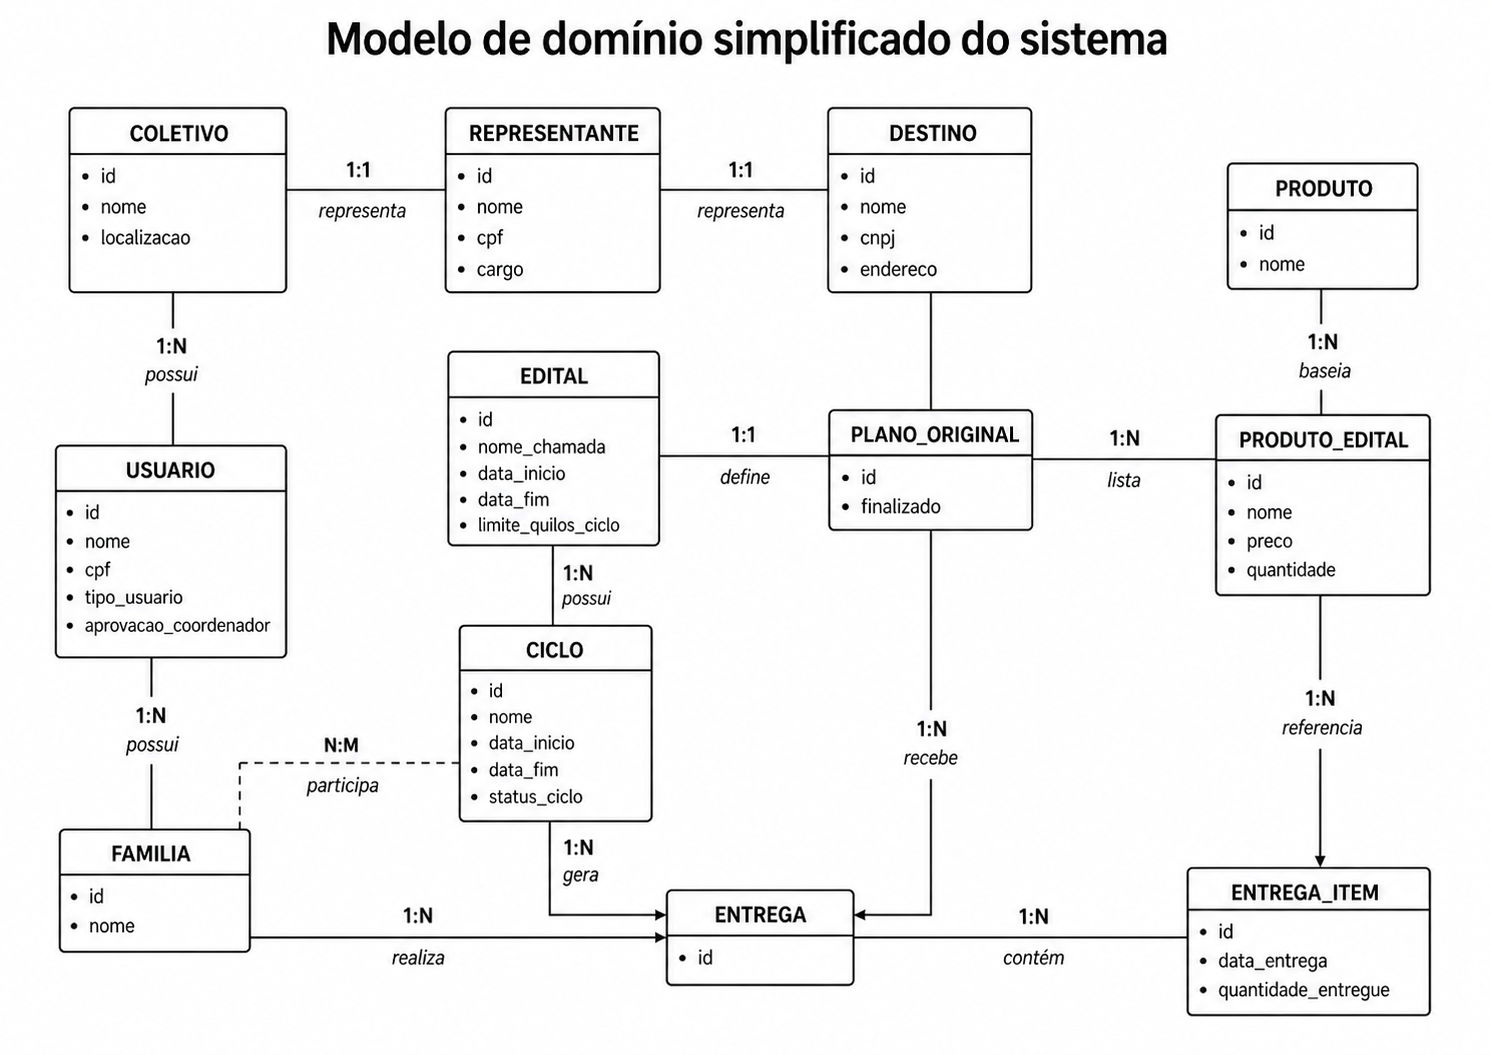
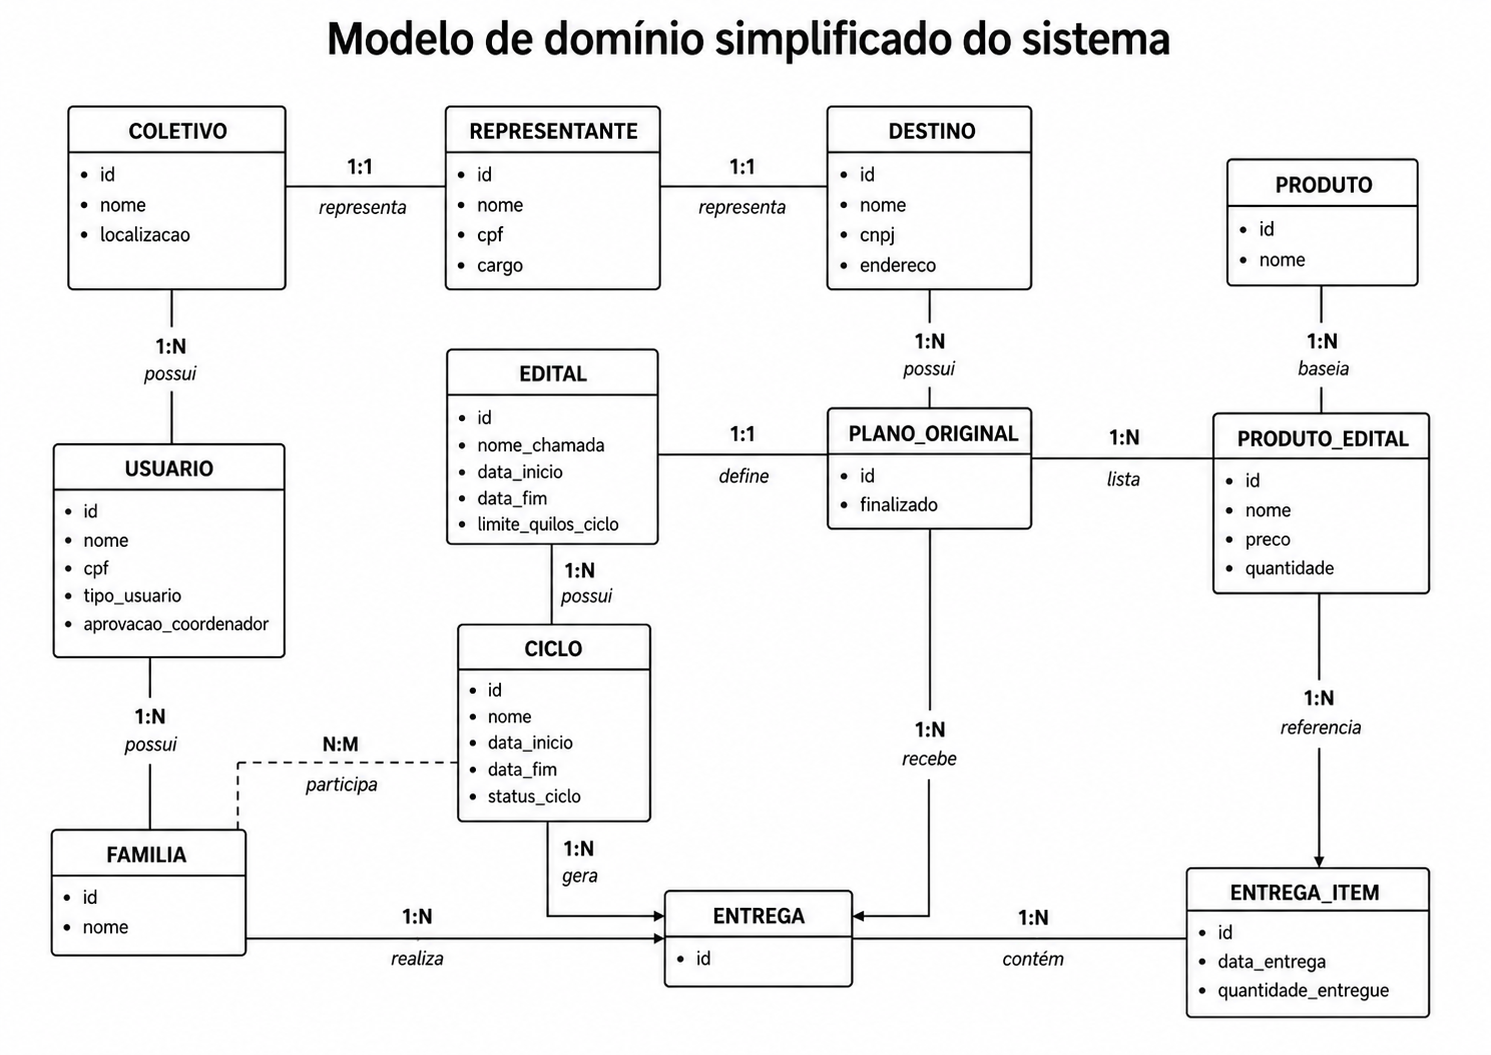
fix: Mudança no diagrama simplificado de classes. Imagem da arquitetura geral do sistema

diff --git a/Textual/chapter05.tex b/Textual/chapter05.tex
@@ -90,30 +90,44 @@ A separação entre frontend e backend confere independência ao desenvolvimento
 
 \begin{figure}[H]
     \centering
-    \resizebox{\textwidth}{!}{%
+    \resizebox{0.98\textwidth}{!}{%
     \begin{tikzpicture}[
-        component/.style={draw, rounded corners, align=center, minimum width=3.1cm, minimum height=1.15cm, fill=blue!5},
-        deploy/.style={draw, rounded corners, align=center, minimum width=3.1cm, minimum height=1.15cm, fill=green!8},
-        flow/.style={->, >=stealth, thick}
+        component/.style={
+            draw=blue!65!black,
+            very thick,
+            rounded corners=3pt,
+            align=center,
+            minimum width=3.25cm,
+            minimum height=1.5cm,
+            fill=blue!5,
+            font=\sffamily
+        },
+        request/.style={->, >=stealth, thick, blue!70!black},
+        response/.style={<-, >=stealth, thick, green!45!black},
+        flowlabel/.style={font=\sffamily\scriptsize, align=center, fill=white, inner sep=1pt}
     ]
-        \node[component] (browser) {Usuários\\Navegador web};
-        \node[component, right=1.2cm of browser] (frontend) {Frontend\\React 19 e TypeScript};
-        \node[component, right=1.2cm of frontend] (backend) {Backend\\Java 17 e Spring Boot 3};
-        \node[component, right=1.2cm of backend] (database) {Banco de dados\\PostgreSQL};
+        \node[component] (user) {\textbf{Usuário}\\Navegador web};
+        \node[component, right=2.25cm of user] (frontend) {\textbf{Frontend}\\React 19 e TypeScript};
+        \node[component, right=2.25cm of frontend] (backend) {\textbf{Backend}\\Java 17 e Spring Boot 3};
+        \node[component, right=2.25cm of backend] (database) {\textbf{Banco de dados}\\PostgreSQL};
 
-        \draw[flow] (browser) -- node[above]{HTTPS} (frontend);
-        \draw[flow] (frontend) -- node[above]{API REST/JSON} (backend);
-        \draw[flow] (backend) -- node[above]{JPA/Hibernate} (database);
+        \draw[request] ([yshift=4mm]user.east) --
+            node[flowlabel, above]{Ações} ([yshift=4mm]frontend.west);
+        \draw[response] ([yshift=-4mm]user.east) --
+            node[flowlabel, below]{Interface} ([yshift=-4mm]frontend.west);
 
-        \node[deploy, below=1.4cm of frontend] (gitlab) {GitLab\\CI e CD};
-        \node[deploy, below=1.4cm of backend] (dockerhub) {Docker Hub\\Imagens dos módulos};
-        \node[deploy, below=1.4cm of database] (vps) {VPS de homologação\\Docker Compose};
+        \draw[request] ([yshift=4mm]frontend.east) --
+            node[flowlabel, above]{Requisições\\HTTP} ([yshift=4mm]backend.west);
+        \draw[response] ([yshift=-4mm]frontend.east) --
+            node[flowlabel, below]{Respostas\\HTTP} ([yshift=-4mm]backend.west);
 
-        \draw[flow] (gitlab) -- node[above]{build} (dockerhub);
-        \draw[flow] (dockerhub) -- node[above]{implantação} (vps);
+        \draw[request] ([yshift=4mm]backend.east) --
+            node[flowlabel, above]{Consultas e\\comandos} ([yshift=4mm]database.west);
+        \draw[response] ([yshift=-4mm]backend.east) --
+            node[flowlabel, below]{Dados e\\resultados} ([yshift=-4mm]database.west);
     \end{tikzpicture}%
     }
-    \caption{Arquitetura lógica e fluxo de implantação do sistema Biribá}
+    \caption{Comunicação entre os módulos da arquitetura do sistema Biribá}
     \label{fig:arquitetura-biriba}
 \end{figure}
 
